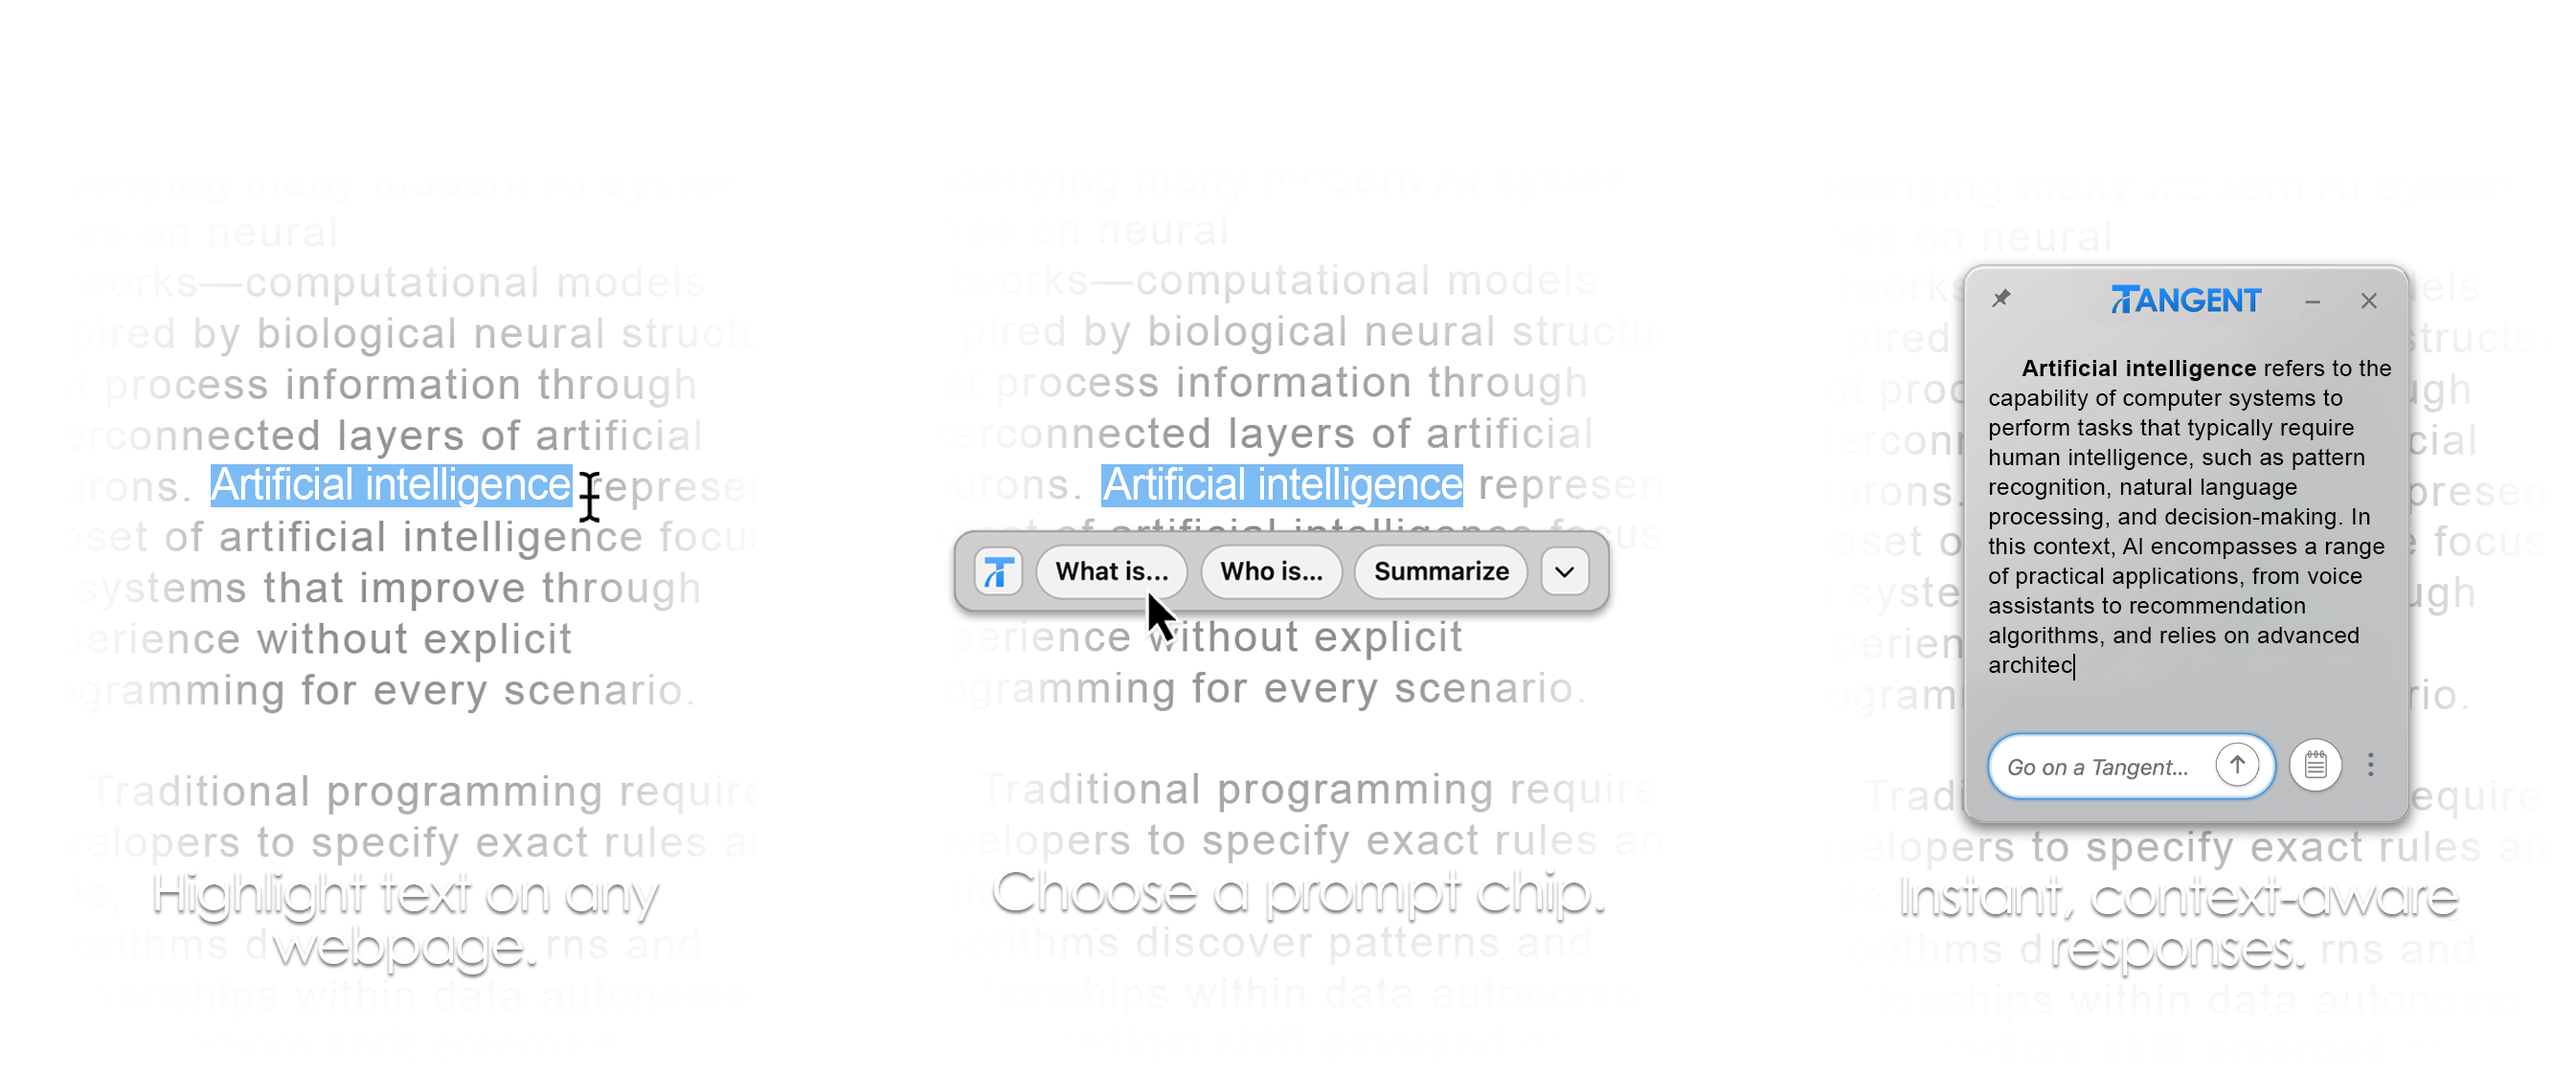
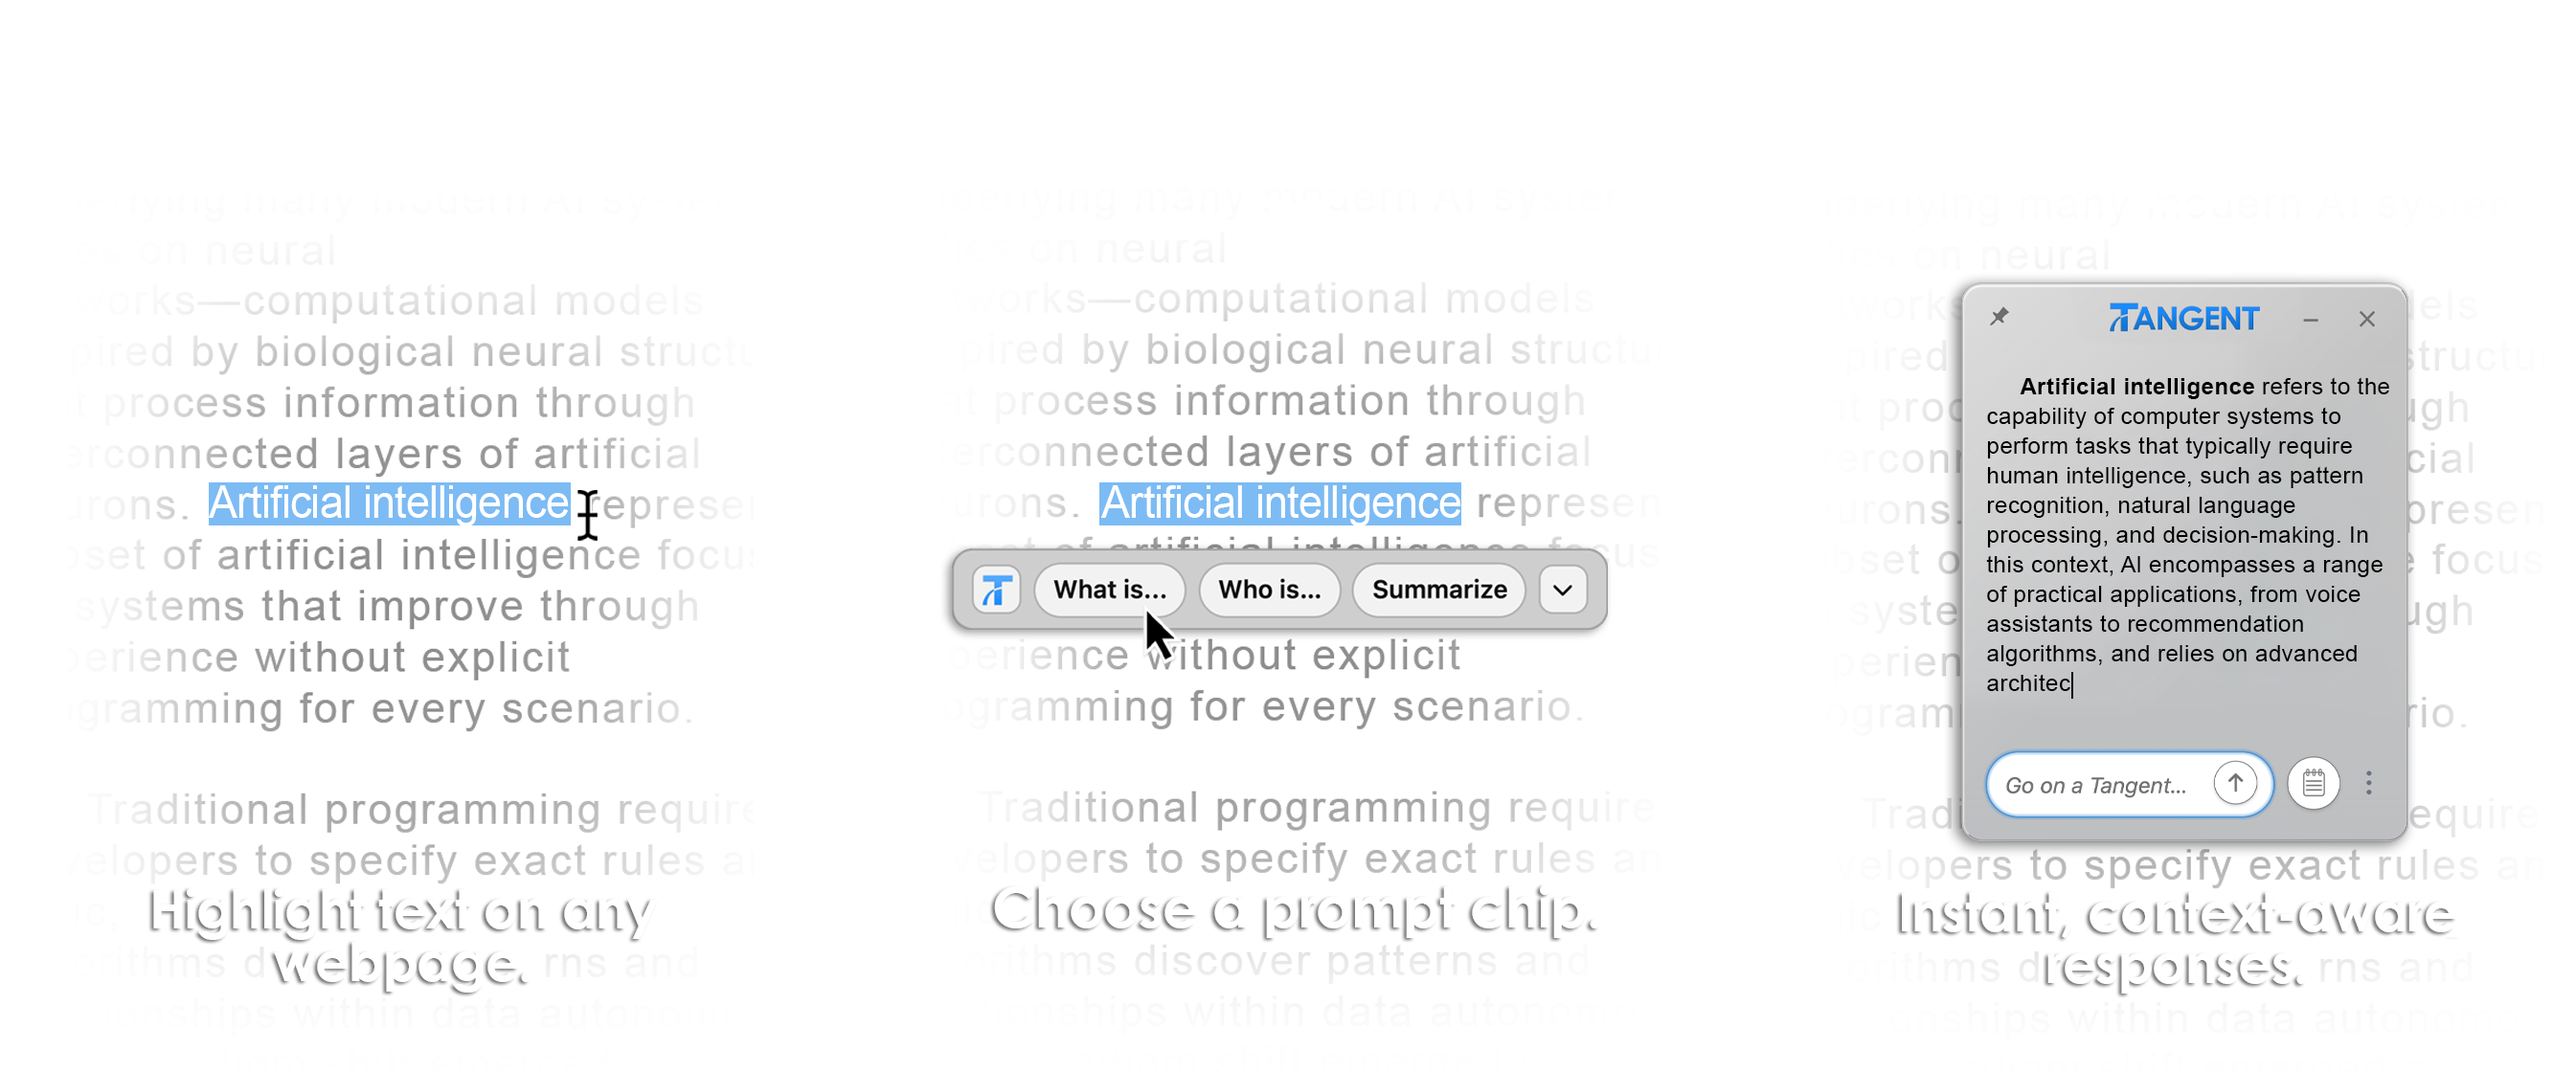
Refactor triptych section styles for improved responsiveness and prevent overflow on ultra-wide screens

diff --git a/index.html b/index.html
@@ -671,6 +671,10 @@
                 width: 17px;
                 height: 17px;
             }
+
+            .triptych-section {
+                max-width: 1150px; /* Prevent overflow on ultra-wide */
+            }
         }
 
         /* Narrow desktop/wide tablet (769px - 1100px) - Handle narrow viewports */
@@ -701,7 +705,7 @@
 
             .triptych-section {
                 width: 56%; /* Further reduced for medium-large screens */
-                max-width: 1250px; /* Smaller cap */
+                max-width: 1050px; /* Reduced to prevent overflow at 2560px width */
             }
         }
 
@@ -838,15 +842,21 @@
             .panel-main {
                 left: 5% !important;
                 right: 5% !important;
+                height: 100% !important; /* Ensure panel fills to allow content centering */
             }
 
             .panel-content {
-                padding: 1% 0.5% !important;
+                padding: 0.5% !important;
+                display: flex !important;
+                flex-direction: column !important;
+                justify-content: center !important; /* Vertically center all content */
+                align-items: center !important;
+                height: 100% !important; /* Fill parent to enable vertical centering */
             }
 
             .main-logo {
-                margin-top: 1vh;
-                margin-bottom: 1vh;
+                margin-top: 0;
+                margin-bottom: 2vh;
             }
 
             .tagline {
@@ -865,7 +875,7 @@
                 height: 44px; /* Reduced height */
                 gap: 6px;
                 padding: 6px 10px;
-                margin-bottom: 12px;
+                margin-bottom: 0;
                 margin-left: 0; /* Center horizontally */
                 justify-content: center;
                 transform: none; /* Remove scale transform */
